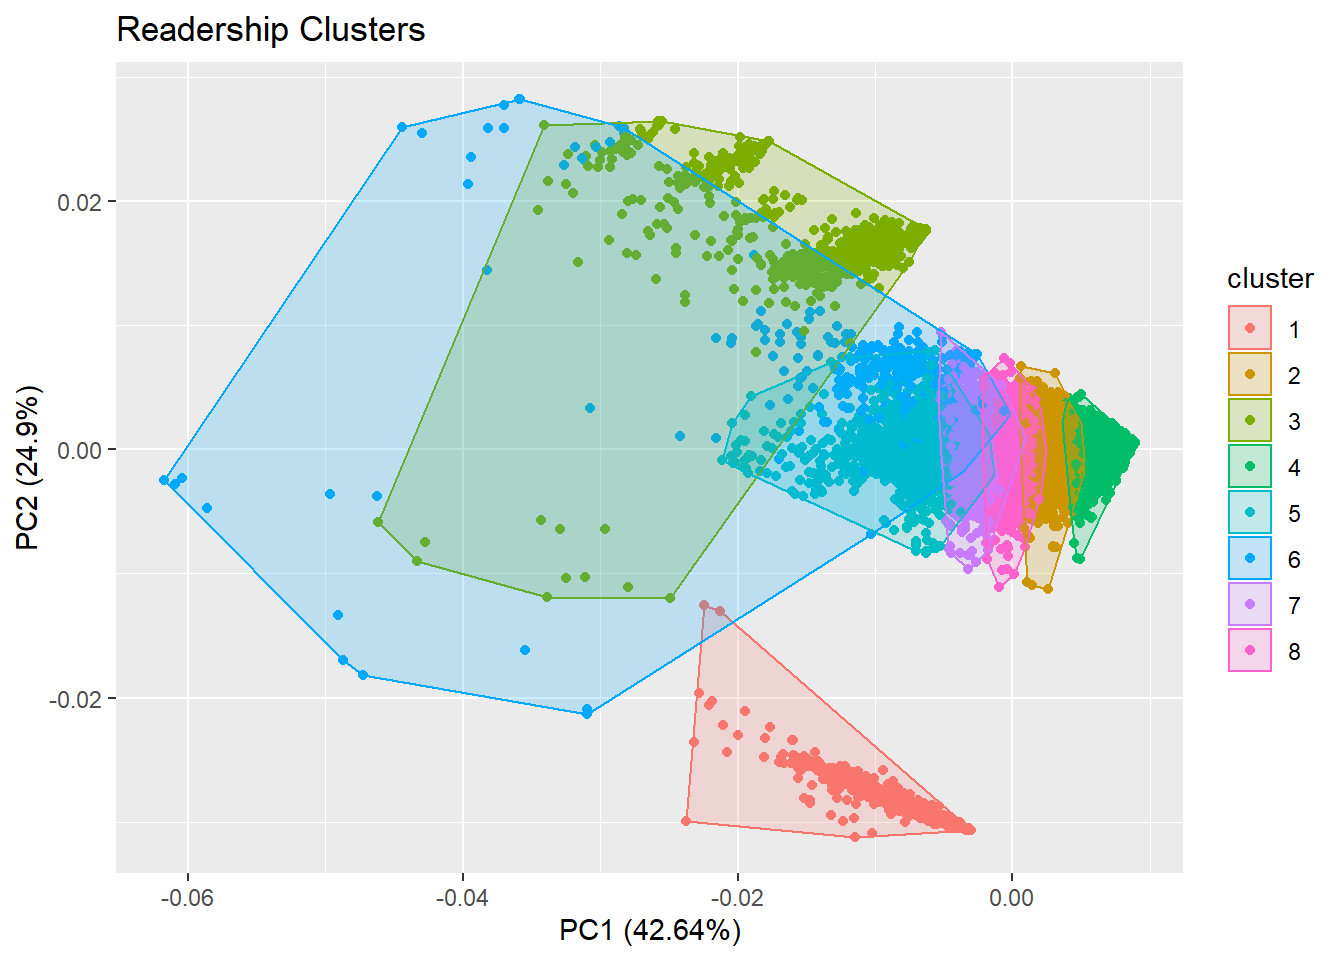
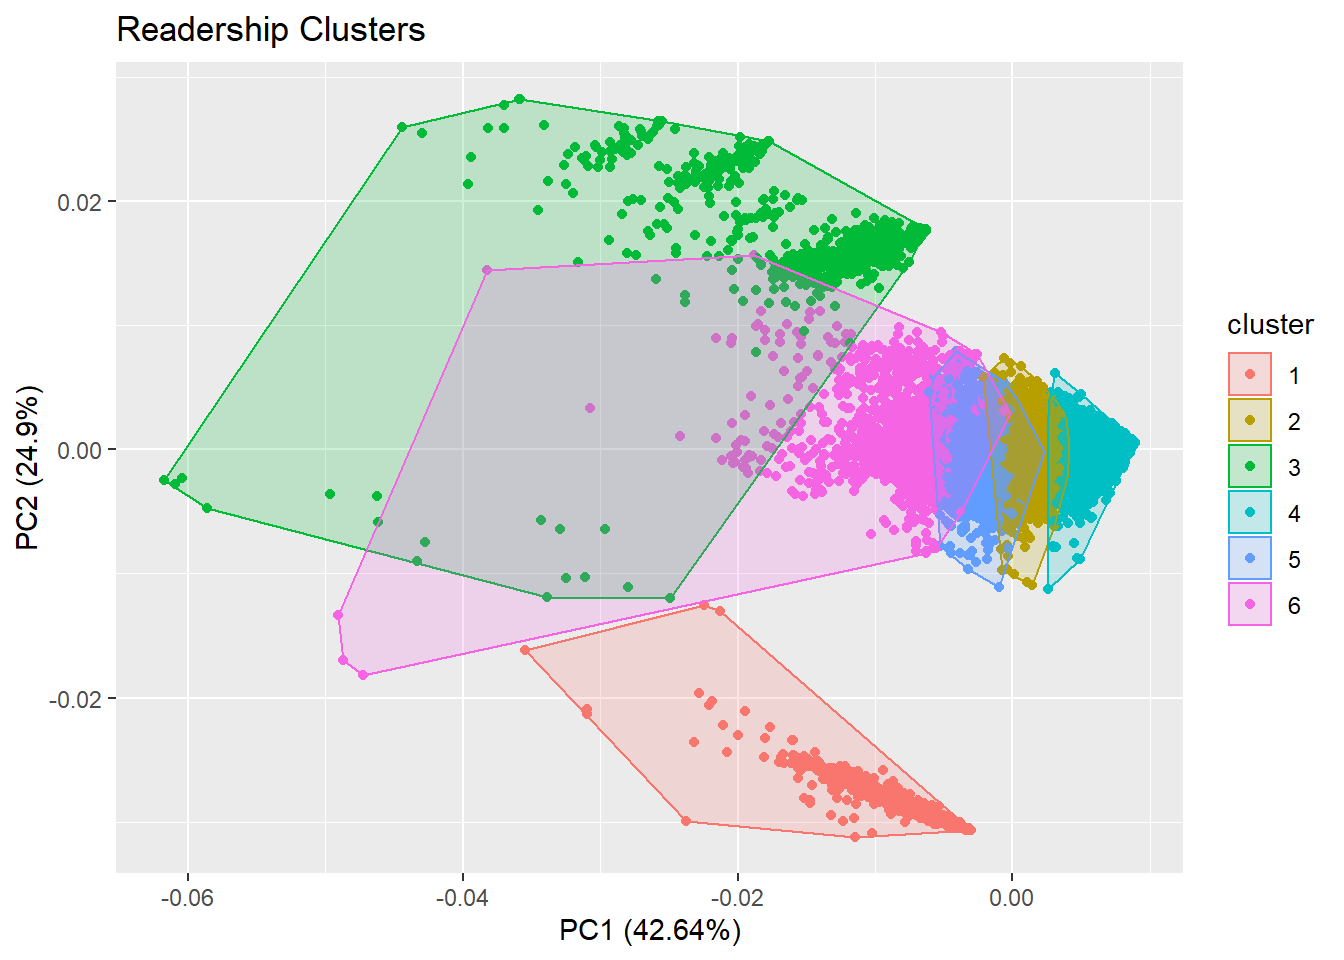
Add silhouette analysis

Changed region(s): [[0.125, 0.0938, 0.8438, 0.8438], [0.9062, 0.2812, 0.9688, 0.5], [0.9062, 0.5312, 0.9688, 0.7188]]

diff --git a/docs/index.html b/docs/index.html
@@ -426,51 +426,70 @@ head(user_features_df, 15)</code></pre>
 <p><img src="index_files/figure-html/unnamed-chunk-6-1.png" width="672" style="display: block; margin: auto;" /></p>
 <p>While the graph above is fine for comparing two genres, for comparing many genres it becomes infeasible as it is hard visualize space beyond 3 dimensions. Furthermore, we are also interested in clustering our data. While we had done a very cursory grouping by eye-balling above, ideally, there should be a way to more formally say which data points form a group with one another.</p>
 <p>The solution to both of these problems is using a combination of K-means clustering to determine groups of similar readers and principle component analysis (PCA) to reduce the dimensions of our feature vectors for visualization in 2D space.</p>
-<p>An issue with using K-means is that we do not have a good idea of what is a “good” K. We can try to address this by doing several test runs with different K’s and comparing them, specifically, by comparing their total sum of squared distances (SSE). Intuitively, a good clustering should minimize the distances of points to the centroids of their respective clusters which would be reflected in a low total SSE.</p>
+<div id="determining-k" class="section level3">
+<h3>Determining K</h3>
+<p>The main issue with using K-means is that we do not have a good idea of what is a “good” K. One way we can address this is by doing several test runs with different K’s and comparing them, specifically, by comparing their total sum of squared distances (SSE). Intuitively, a good clustering should minimize the distances of points to the centroids of their respective clusters which would be reflected in a low total SSE.</p>
+<p>While we want to lower variation within clusters, at the same time, we also want our clusters to actually be clusters. This means that for any data point, it should ideally be close to the centroid of its cluster and far from others, a metric known as the silhouette. While increasing K to an unreasonably large number may reduce total SSE, data in such a clustering would have low silhouettes since data points in one cluster would be very close to data points in other clusters.</p>
+<p>The goal of finding a good K then resides in reducing SSE while still trying to keep silhouette high. Let’s compute and graph both SSE and silhouette from a sample of the users to see what a good K might be.</p>
 <pre class="r"><code>set.seed(320)
 
-# Figure out a good k using SSE
-sse &lt;- sapply(1:10, function(k) {
-  sum(kmeans(user_features_df, k)$withinss)
+k_range &lt;- 2:20
+user_features_sample_df &lt;- sample_n(user_features_df, 1000)
+
+# SSE
+sse &lt;- sapply(k_range, function(k) {
+  kmeans(user_features_sample_df, k)$tot.withinss
 })
 
-ggplot(mapping=aes(x=seq_along(sse), y=sse)) +
+ggplot(mapping=aes(x=k_range, y=sse)) +
   geom_line() +
-  geom_point() +
+  geom_label(aes(label=k_range)) + 
   labs(
-    title=&quot;SSE vs K in K-Means Clustering&quot;,
+    title=&quot;Total SSE vs K&quot;,
     x=&quot;k&quot;,
-    y=&quot;SSE&quot;
+    y=&quot;Total SSE&quot;
   )</code></pre>
 <p><img src="index_files/figure-html/unnamed-chunk-7-1.png" width="672" style="display: block; margin: auto;" /></p>
-<p>Looking at the graph, a K of about 8 seems reasonable to proceed with.</p>
-<p><strong>TODO: do silhouette too</strong> <strong>TODO: More research and talk about kmeans</strong></p>
-<p><strong>TODO: Research and talk about pca</strong></p>
+<pre class="r"><code># Average silhouettes
+sil &lt;- sapply(k_range, function(k) {
+  km.res &lt;- kmeans(user_features_sample_df, centers=k)
+  ss &lt;- silhouette(km.res$cluster, dist(user_features_sample_df))
+  mean(ss[,3])
+})
+
+ggplot(mapping=aes(x=k_range, y=sil)) +
+  geom_line() +
+  geom_label(aes(label=k_range)) + 
+  labs(
+    title=&quot;Average Silhouettes vs K&quot;,
+    x=&quot;k&quot;,
+    y=&quot;Average Silhouette&quot;
+  )</code></pre>
+<p><img src="index_files/figure-html/unnamed-chunk-7-2.png" width="672" style="display: block; margin: auto;" /></p>
+<p>Observing both graphs, K = 6 appears to be a point where total SSE has begun to flatten but average silhouette is still somewhat high, making it a reasonable compromise for K. Let’s try to cluster all of our users with this K.</p>
 <pre class="r"><code>set.seed(320)
 
-kmeans_res &lt;- kmeans(user_features_df, 8)
+kmeans_res &lt;- kmeans(user_features_df, 6)
 kmeans_res$centers</code></pre>
 <pre><code>##    fantasy    horror  mystery realistic_fiction  romance science_fiction
-## 1 4.092027  4.059021 4.101761         -5.000000 4.045898        4.024838
-## 2 4.262018  4.166758 4.232314          4.150337 4.183048        4.237794
-## 3 3.646388 -5.000000 4.103732          3.953916 4.012417        2.146611
-## 4 4.688973  4.659520 4.682808          4.600889 4.641910        4.680575
-## 5 3.055382  2.868820 3.041681          3.035375 3.005059        2.973468
-## 6 3.554096  3.405294 3.656498          3.776187 3.888465       -1.594454
-## 7 3.549802  3.376292 3.516700          3.485445 3.477023        3.489239
-## 8 3.909434  3.778664 3.869412          3.807965 3.821126        3.872083
-##     thriller young_adult
-## 1  4.0189388    4.029697
-## 2  4.2017394    4.253009
-## 3  3.4250208    4.120074
-## 4  4.6786242    4.670236
-## 5  2.9522592    3.058343
-## 6 -0.3141662    3.849344
-## 7  3.4596721    3.571416
-## 8  3.8200357    3.910326</code></pre>
+## 1 4.082210  4.058811 4.089536         -5.000000 4.032686        3.992722
+## 2 4.069565  3.952256 4.034179          3.963205 3.984413        4.037278
+## 3 3.535047 -5.000000 3.991061          3.883914 3.959537        1.899152
+## 4 4.574821  4.527793 4.562151          4.475765 4.517483        4.562859
+## 5 3.617038  3.454431 3.579493          3.538471 3.536758        3.567962
+## 6 3.113330  2.955288 3.112006          3.132536 3.098398        2.590623
+##   thriller young_adult
+## 1 3.995147    4.029354
+## 2 3.992261    4.067606
+## 3 3.133296    4.092793
+## 4 4.551805    4.556903
+## 5 3.527587    3.626548
+## 6 2.693218    3.149608</code></pre>
 <pre class="r"><code>autoplot(kmeans_res, data=user_features_df, frame=TRUE) +
   labs(title=&quot;Readership Clusters&quot;)</code></pre>
 <p><img src="index_files/figure-html/unnamed-chunk-8-1.png" width="672" style="display: block; margin: auto;" /></p>
+<p><strong>TODO: talk about clusters</strong> <strong>TODO: Research and talk about pca</strong></p>
+</div>
 </div>
 <div id="predictions" class="section level2">
 <h2>Predictions</h2>
